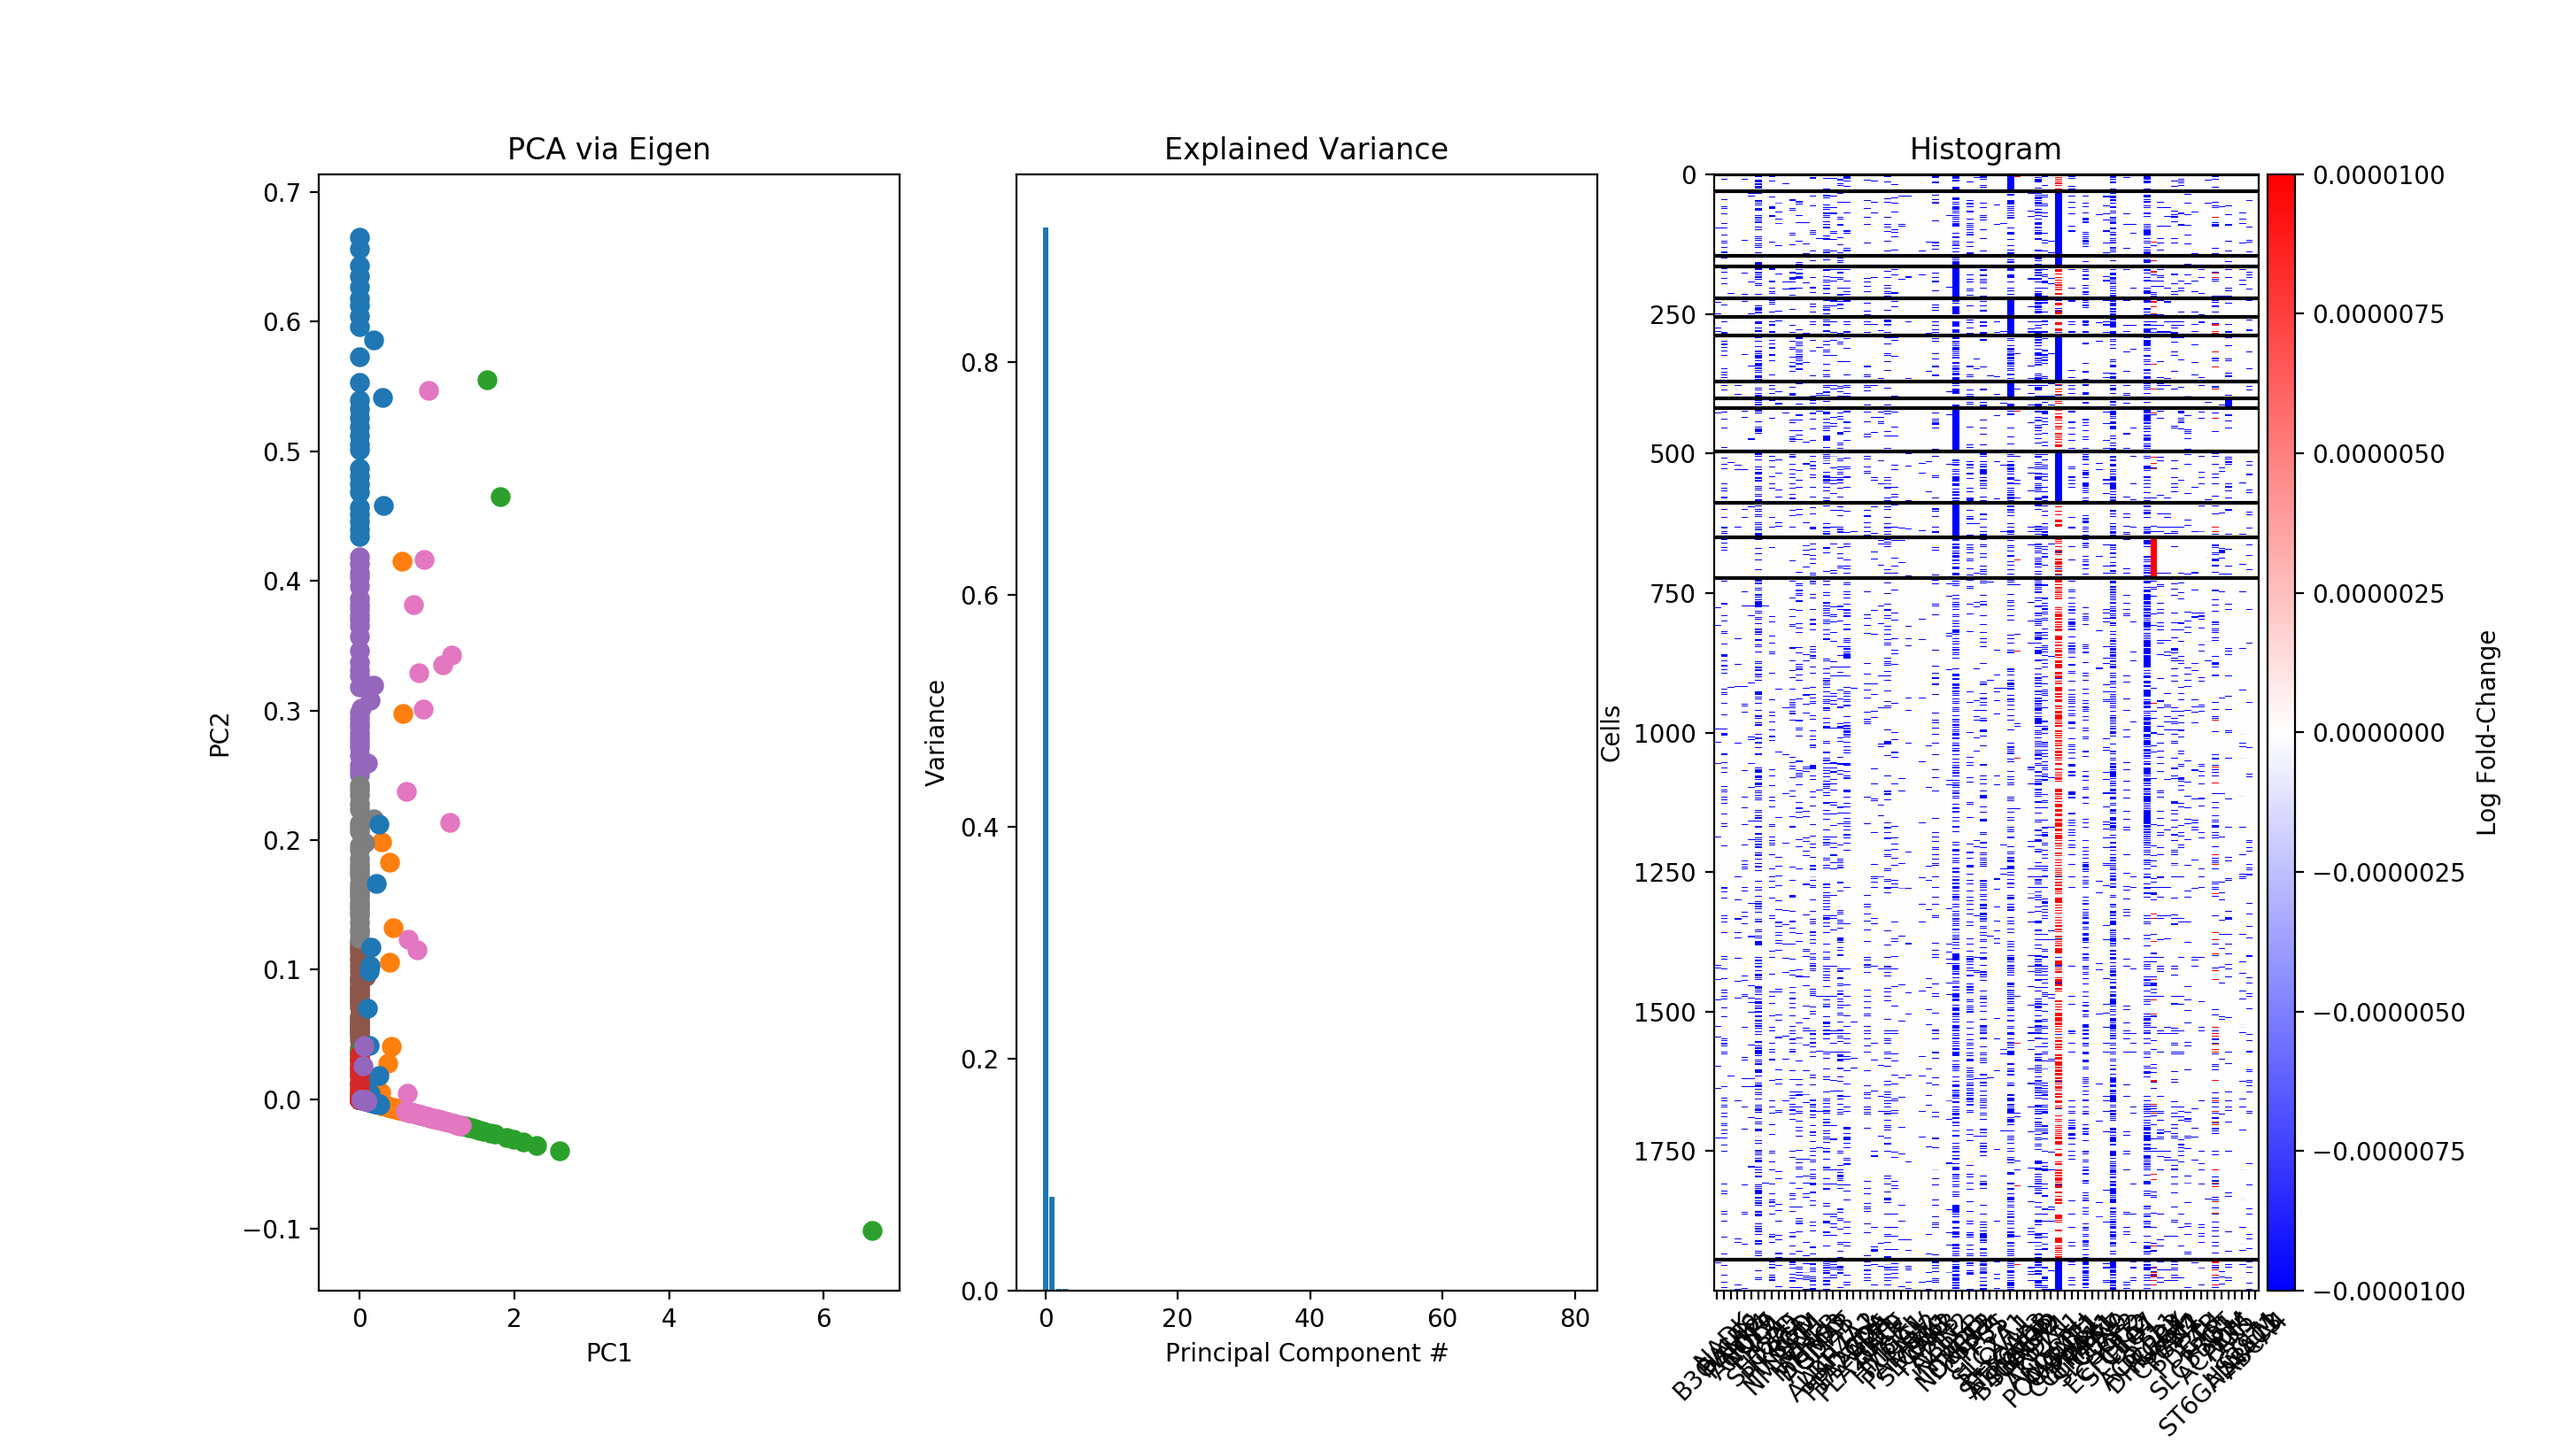
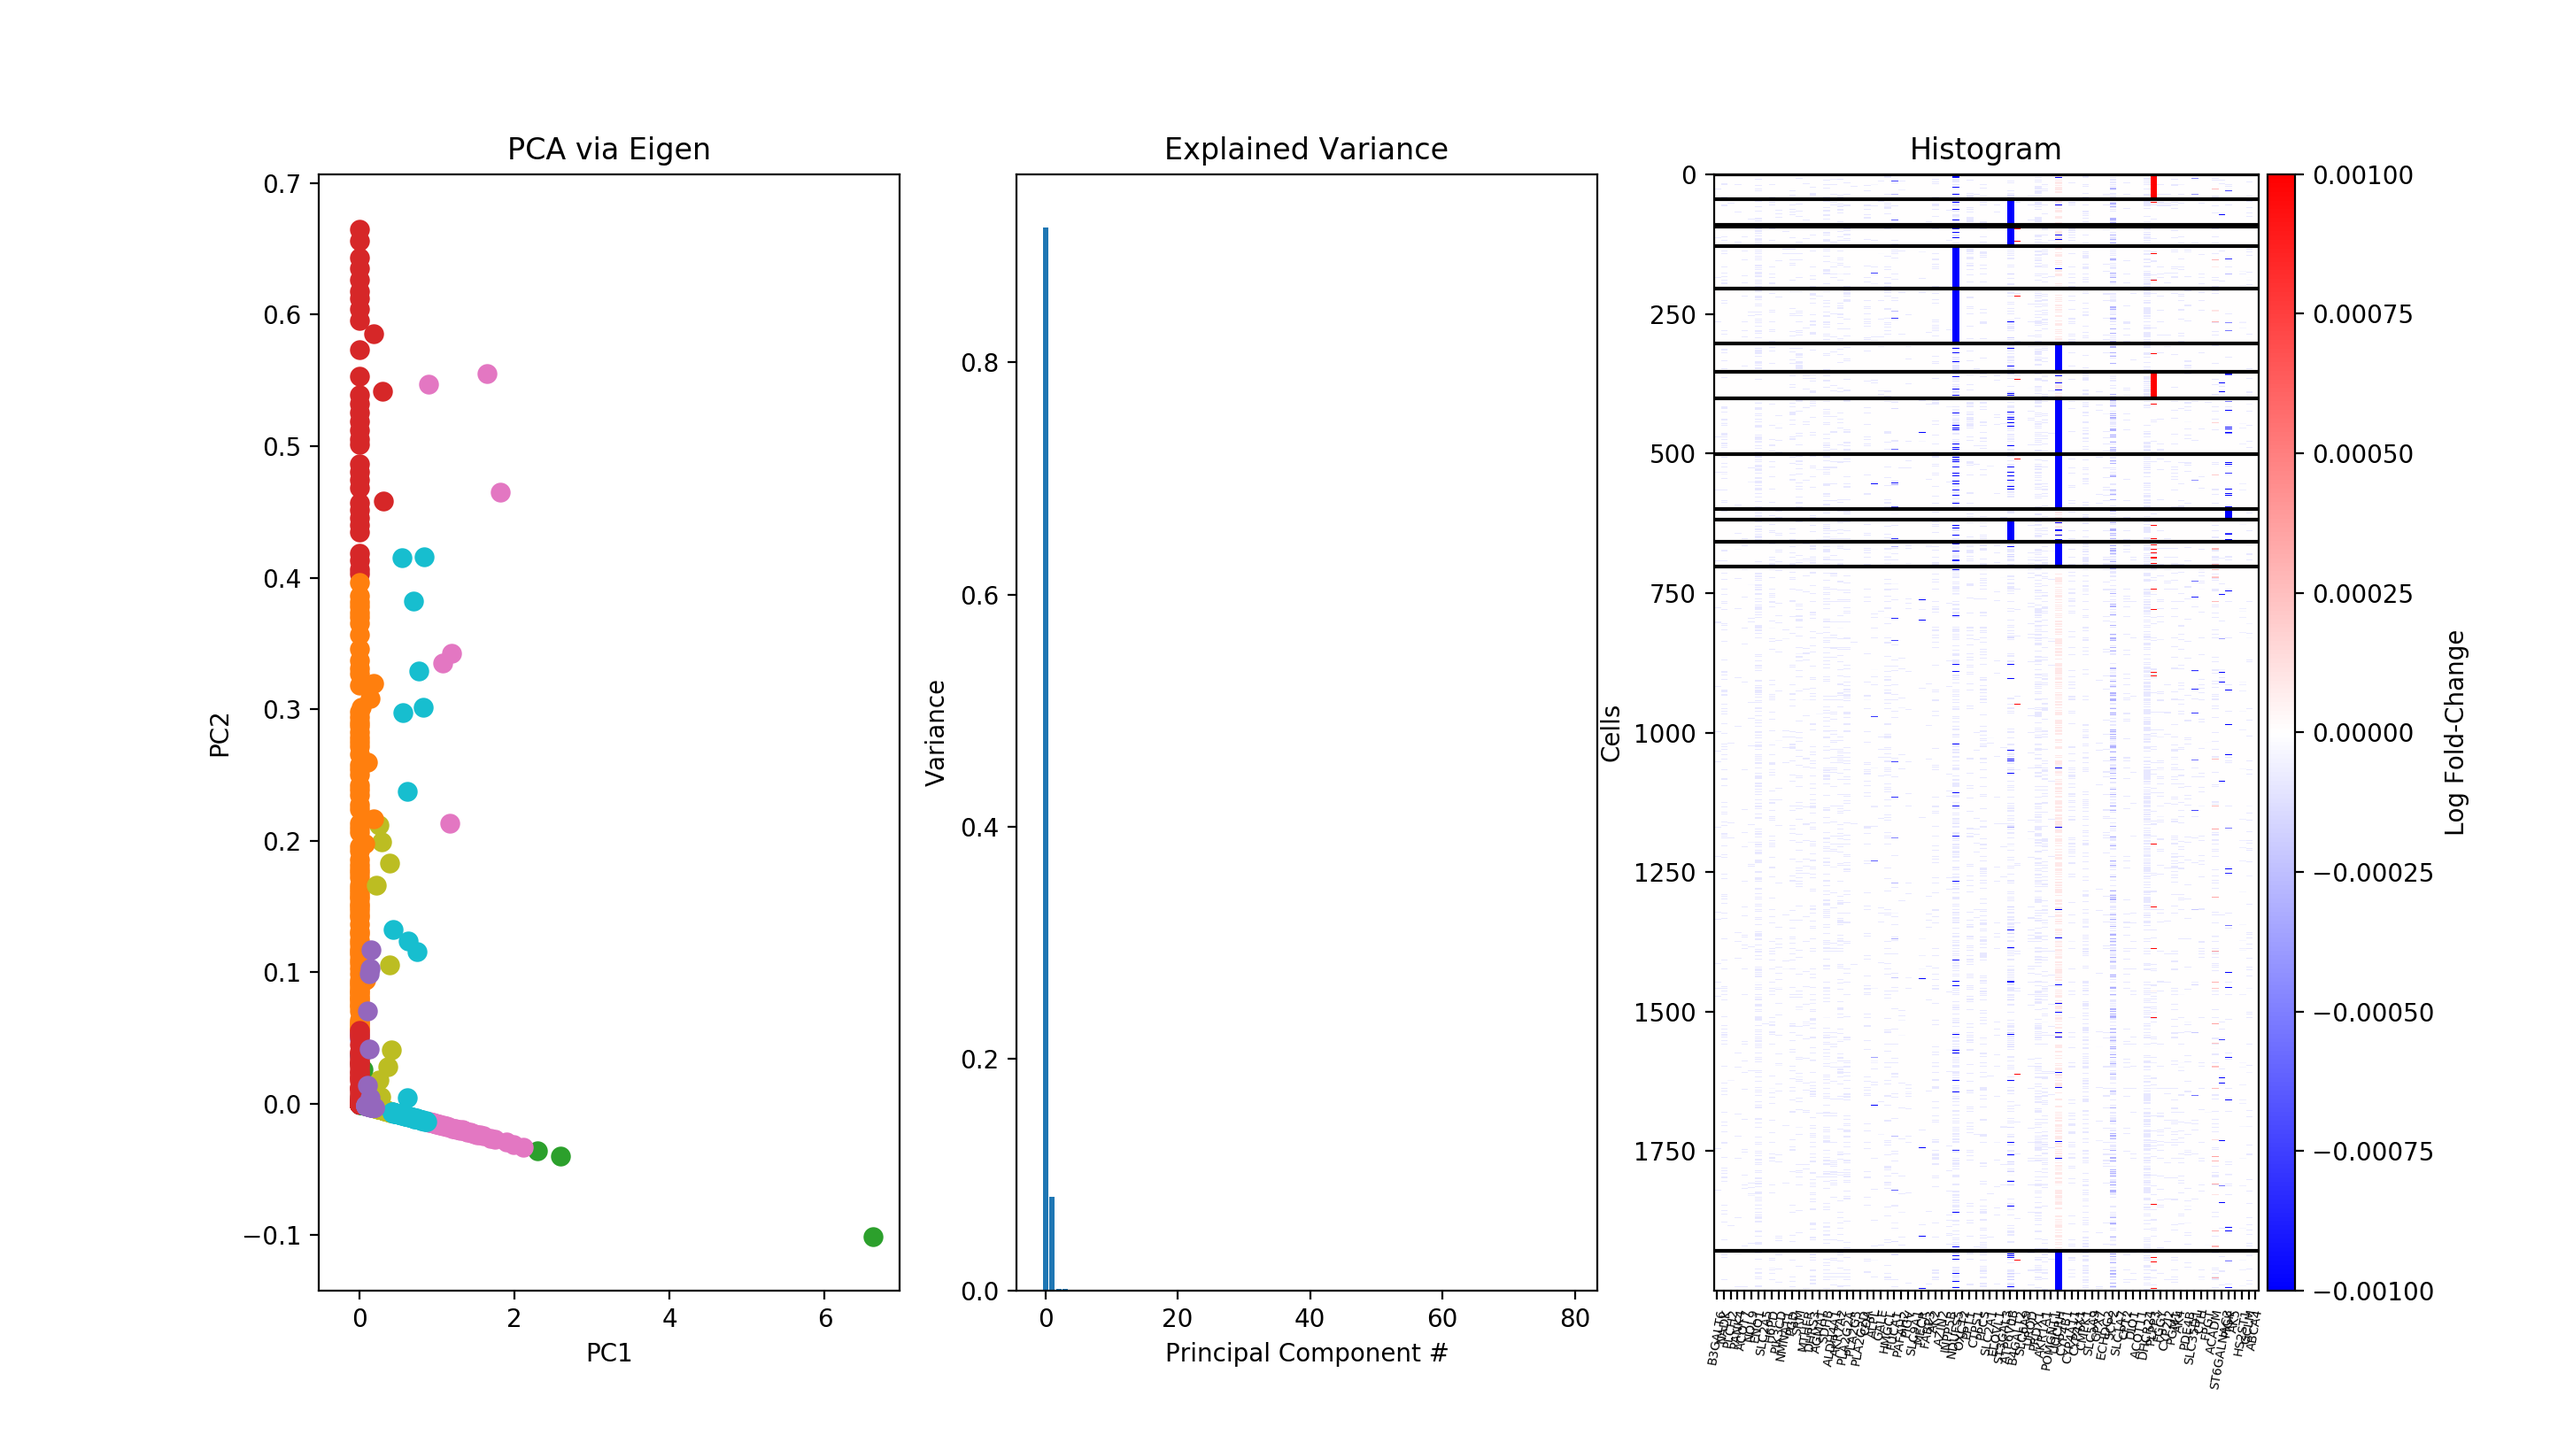
style changes

diff --git a/Final_KY_Jelly/cluster.py b/Final_KY_Jelly/cluster.py
@@ -40,14 +40,14 @@ k_means_sorted = tdata[:, 1:]
 # make plots
 fig, axs = plt.subplots(1, 3)
 # plot it
-im = axs[2].imshow(k_means_sorted, cmap='bwr', aspect='auto', vmin=-.00001, vmax=.00001)
+im = axs[2].imshow(k_means_sorted, cmap='bwr', aspect='auto', vmin=-.001, vmax=.001)
 divider = make_axes_locatable(axs[2])
 cax = divider.append_axes('right', size='5%', pad=0.05)
 fig.colorbar(im, cax=cax, orientation='vertical', label='Log Fold-Change')
 # make the gene names the x axis labels
 axs[2].set_xticks(range(0, len(dimnames[:-1])))
 axs[2].set_xticklabels(dimnames[:-1])
-plt.setp(axs[2].xaxis.get_majorticklabels(), rotation=45)
+plt.setp(axs[2].xaxis.get_majorticklabels(), rotation=80, fontsize=5)
 axs[2].set_ylabel('Cells')
 axs[2].set_title('Histogram')
 for i in range(clusternum):
